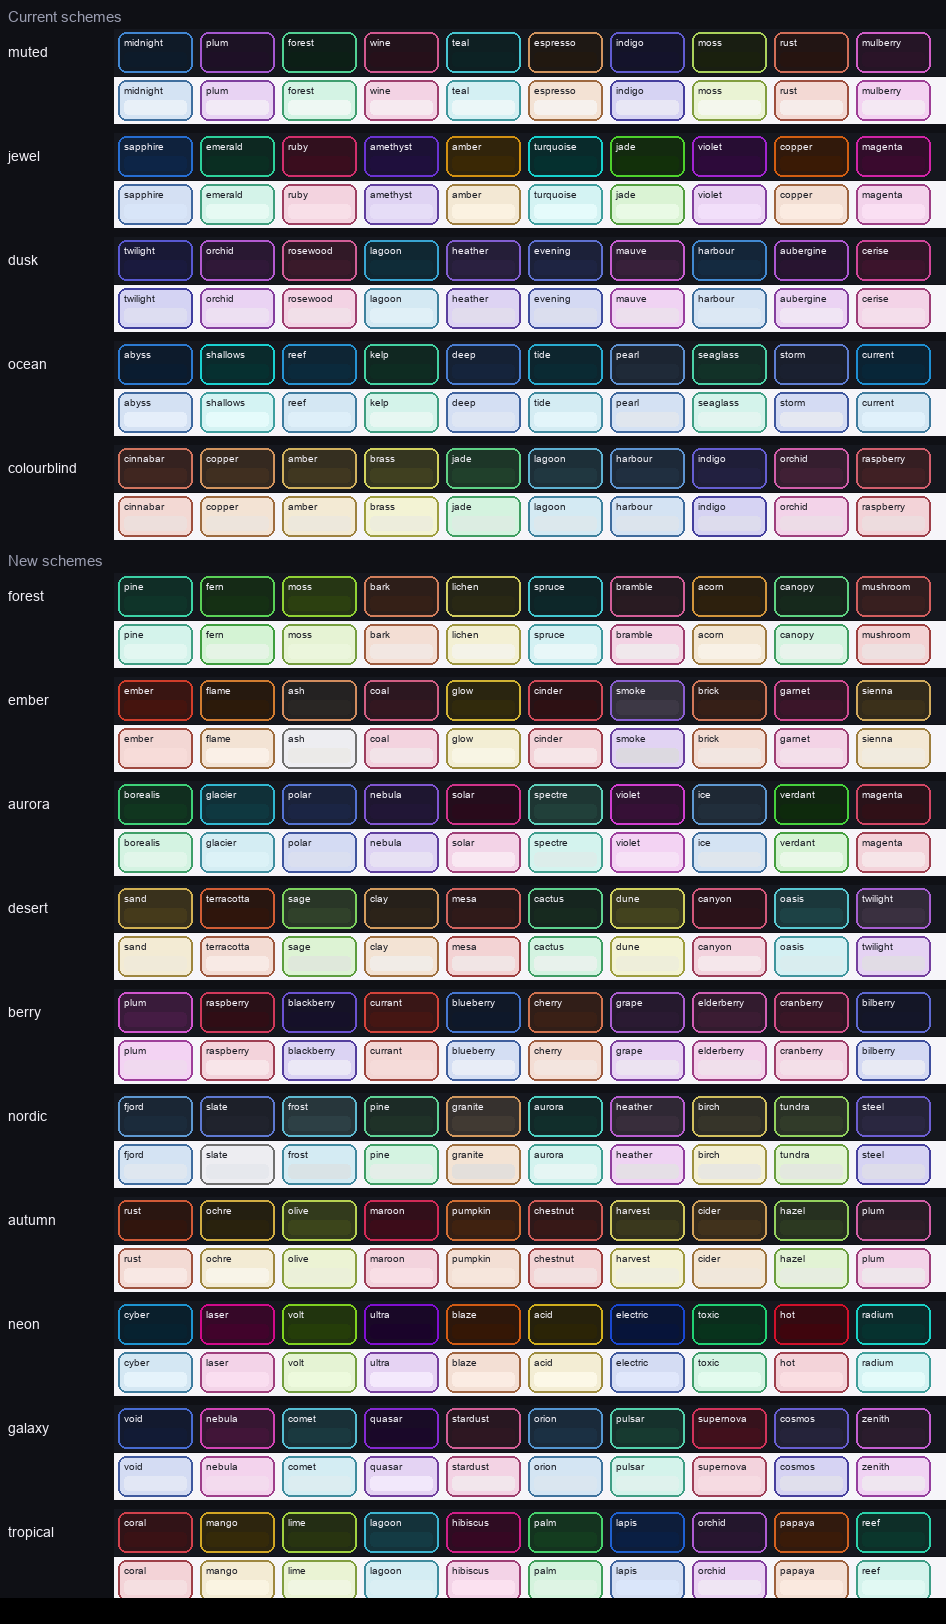
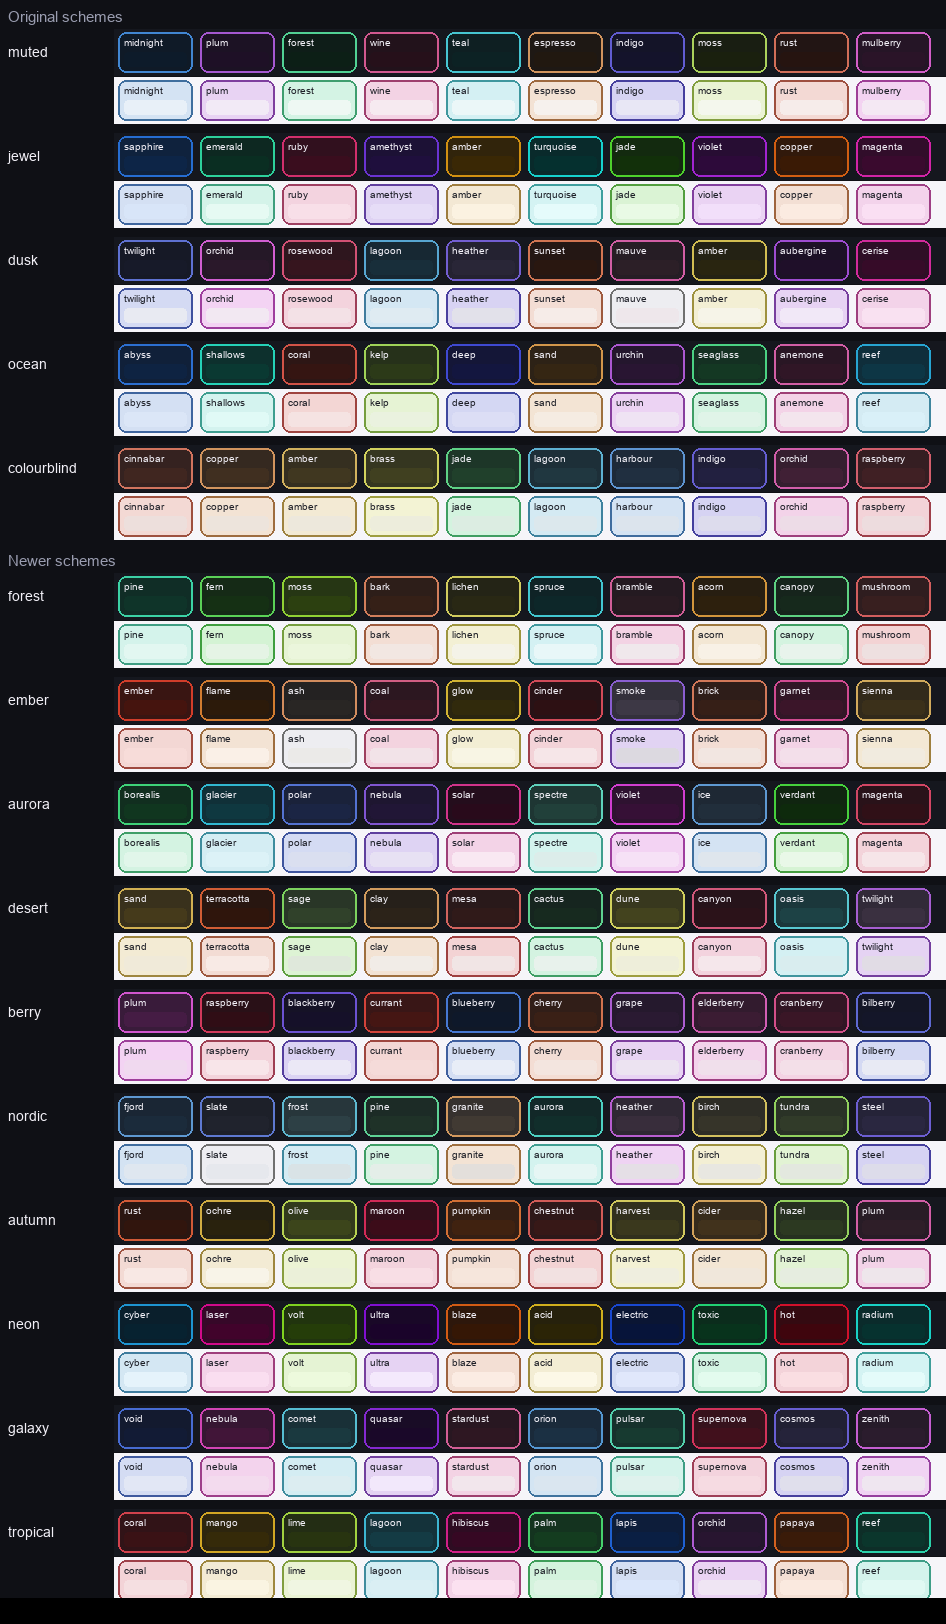
Retune dusk and ocean so every card stays distinct
Both schemes were too narrow in hue, and in light mode some of their cards
came out almost identical. Dusk gains sunset orange and amber, ocean gains
coral, sand, kelp, urchin and anemone. The distinctness test now covers
all fifteen schemes with no exemptions.

diff --git a/scripts/tint.py b/scripts/tint.py
@@ -39,17 +39,15 @@ DARK = {
         ("amber", "3a2805"), ("turquoise", "05302f"), ("jade", "12300a"), ("violet", "2d0a3a"),
         ("copper", "3a1a05"), ("magenta", "3a0a2e"),
     ],
-    # Twilight purples, roses and evening blues.
+    # Twilight purples and roses, with sunset orange and amber.
     "dusk": [
-        ("twilight", "1a1a3e"), ("orchid", "301838"), ("rosewood", "3a1a2a"), ("lagoon", "0f2c38"),
-        ("heather", "2a2040"), ("evening", "1e2442"), ("mauve", "38203a"), ("harbour", "142a40"),
-        ("aubergine", "281430"), ("cerise", "3c142c"),
+        ("twilight", "171a29"), ("orchid", "2a182a"), ("rosewood", "36151e"), ("lagoon", "182e3a"), ("heather", "292637"),
+        ("sunset", "291710"), ("mauve", "2c1f27"), ("amber", "292510"), ("aubergine", "1f0f29"), ("cerise", "360b28"),
     ],
-    # Sea blues, teals and greens.
+    # Sea blues and teals, with coral, sand, kelp and urchin.
     "ocean": [
-        ("abyss", "0a1c30"), ("shallows", "063030"), ("reef", "0b2a3c"), ("kelp", "0e2c22"),
-        ("deep", "15243c"), ("tide", "0a2a33"), ("pearl", "1f2a38"), ("seaglass", "123228"),
-        ("storm", "1a2030"), ("current", "082638"),
+        ("abyss", "0e2342"), ("shallows", "0a3932"), ("coral", "351512"), ("kelp", "2c3a18"), ("deep", "13163f"),
+        ("sand", "352613"), ("urchin", "291532"), ("seaglass", "143823"), ("anemone", "301626"), ("reef", "0d3645"),
     ],
     # Ten hues picked by simulating protanopia, deuteranopia and tritanopia, so
     # every pair of card colours stays as different as ten colours allow for each.

diff --git a/tests/test_tint.py b/tests/test_tint.py
@@ -122,13 +122,10 @@ def test_colourblind_cards_stay_distinct_for_every_colour_vision_type():
         assert closest > 9, name
 
 
-def test_newer_schemes_keep_every_card_distinct_in_both_modes():
-    """Light-mode cards differ only by hue, so a scheme's hues must stay spread out.
-    dusk and ocean predate this check and are allowed to be closer."""
+def test_every_scheme_keeps_every_card_distinct_in_both_modes():
+    """Light-mode cards differ only by hue, so a scheme's hues must stay spread out."""
     identity = [[1, 0, 0], [0, 1, 0], [0, 0, 1]]
     for scheme in tint.DARK:
-        if scheme in ("dusk", "ocean"):
-            continue
         for mode in ("dark", "light"):
             labs = [_lab(w.accent(h, mode), identity) for _, h in tint.palette(scheme, mode)]
             closest = min(sum((p - q) ** 2 for p, q in zip(a, b)) ** 0.5

diff --git a/README.md b/README.md
@@ -127,8 +127,8 @@ There are fifteen colour schemes, and each comes in a dark and a light version. 
 | --- | --- | --- |
 | **muted** | 10 | Quiet, low-saturation colours. The default. |
 | **jewel** | 10 | Richer sapphires, emeralds and rubies that are easy to tell apart. |
-| **dusk** | 10 | Twilight purples, roses and evening blues. |
-| **ocean** | 10 | Sea blues, teals and greens. |
+| **dusk** | 10 | Twilight purples and roses, with sunset orange and amber. |
+| **ocean** | 10 | Sea blues and teals, with coral, sand, kelp and urchin. |
 | **colourblind** | 10 | Warm reds and golds, jade, blues, indigo and pinks. |
 | **forest** | 10 | Pines, mosses, bark and mushrooms. |
 | **ember** | 10 | Fire reds, flame oranges, coal and smoke. |
